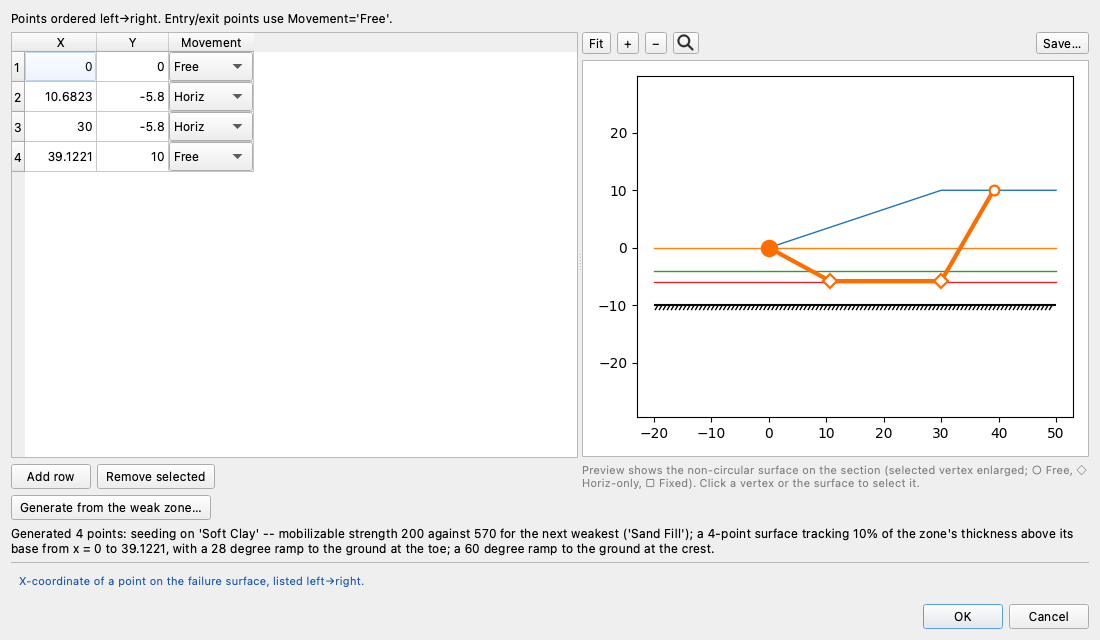
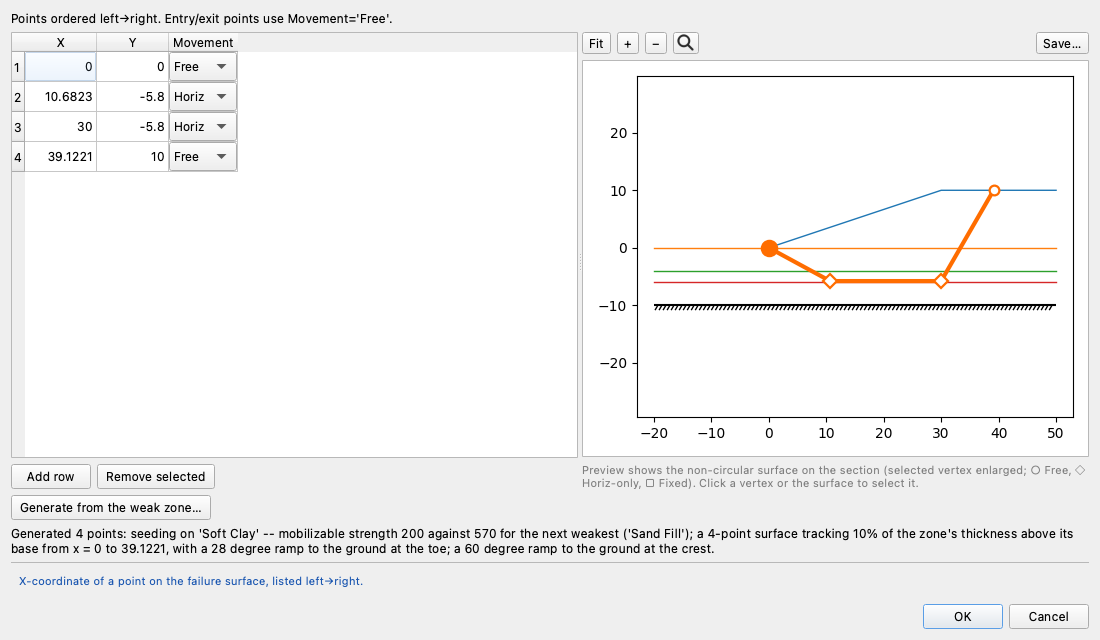
studio: a table opened with no rows has room for the first row; the Materials swatch no longer covers the name column
Each column of widgets (the Materials color swatch, every choice column) is
floored on a sample of its widget, so an empty table opens with those columns
as wide as a full one (within Qt's grid pixel). Tables opened with rows keep the
widths they had: compared column by column over every editor on three models,
only empty tables' widget columns changed. LEM-5's generate shot redrawn; its
Movement column is now the width a full table gives it.

Claude-Session: https://claude.ai/code/session_01XjjT2aBxw8gY7EFdpoUcpj

diff --git a/studio/editors.py b/studio/editors.py
@@ -722,13 +722,27 @@ class _EditableTable(QWidget):
         VISIBLE columns need in the table's viewport.
 
         The field kinds are what tell a numeric column (floored at the widest
-        ordinary number, so an empty table is as wide as a full one) from a text or
-        choice column (floored at its header). A display column that is not a field
-        — the Materials swatch — is not numeric either, and floors on its own
-        header glyph."""
+        ordinary number, so an empty table is as wide as a full one) from a text
+        column (floored at its header). A column of widgets floors on the widget
+        (:meth:`_sample_widgets`), for the same reason as a numeric one."""
         numeric = {j for j, f in enumerate(self._fields)
                    if f.kind in Field.NUMERIC_KINDS}
-        return _fit_columns(self.table, numeric)
+        return _fit_columns(self.table, numeric, self._sample_widgets())
+
+    def _sample_widgets(self):
+        """A sample of the widget each widget column puts in a row: a choice box
+        holding the field's choices, and the Materials swatch's button. Built here
+        rather than read off a row, so a table opened with no rows has room for the
+        first one added."""
+        out = {}
+        for j, f in enumerate(self._fields):
+            if f.kind in Field.COMBO_KINDS:
+                out[j] = QComboBox()
+                out[j].addItems(f.choices)
+        if self._swatch is not None:
+            from .styles_dialog import ColorButton
+            out[len(self._fields)] = ColorButton(self._swatch.default_hex(0))
+        return out
 
     def columns_width(self):
         """The width this pane needs to show every visible column: the fitted
@@ -2275,13 +2289,19 @@ _NUMBER_SAMPLE = "-" + "0" * _DISPLAY_SIG_DIGITS + "."
 _TEXT_SAMPLE = "0" * 12
 
 
-def _column_widths(table, numeric):
+def _column_widths(table, numeric, widgets=None):
     """The width each column needs to show its own widest content, header included.
 
     ``numeric`` is the set of column indexes holding numbers; those are the ones
-    floored at :data:`_NUMBER_SAMPLE`."""
+    floored at :data:`_NUMBER_SAMPLE`. ``widgets`` maps a column whose cells are
+    widgets to a sample of that widget, measured as a row's own widget would be
+    (Qt's column hint reads a cell widget's sizeHint held within its minimum and
+    maximum width). It floors the column the same way: with no rows there is no
+    widget to measure, and a column sized to its header alone is overrun by the
+    first row added."""
     from PySide6.QtWidgets import QComboBox, QStyle
 
+    widgets = widgets or {}
     header = table.horizontalHeader()
     fm = table.fontMetrics()
     cushion = fm.horizontalAdvance("00")                    # one em-ish, both sides
@@ -2291,8 +2311,13 @@ def _column_widths(table, numeric):
     text_floor = fm.horizontalAdvance(_TEXT_SAMPLE) + cushion
     widths = []
     for c in range(table.columnCount()):
-        w = max(table.sizeHintForColumn(c), header.sectionSizeHint(c))
-        free_text = combo = False
+        sample = widgets.get(c)
+        w = max(table.sizeHintForColumn(c), header.sectionSizeHint(c),
+                0 if sample is None else
+                min(max(sample.sizeHint().width(), sample.minimumWidth()),
+                    sample.maximumWidth()))
+        free_text = False
+        combo = isinstance(sample, QComboBox)
         for r in range(table.rowCount()):
             cell = table.cellWidget(r, c)
             if isinstance(cell, QComboBox):
@@ -2325,7 +2350,7 @@ def _column_widths(table, numeric):
     return widths
 
 
-def _fit_columns(table, numeric):
+def _fit_columns(table, numeric, widgets=None):
     """Size each column to its own content (:func:`_column_widths`). Returns the
     viewport width the VISIBLE columns need.
 
@@ -2343,7 +2368,7 @@ def _fit_columns(table, numeric):
     header.setMinimumSectionSize(-1)
     header.setSectionResizeMode(QHeaderView.Interactive)
     header.setStretchLastSection(False)
-    widths = _column_widths(table, numeric)
+    widths = _column_widths(table, numeric, widgets)
     for c, w in enumerate(widths):
         header.resizeSection(c, w)
     return sum(w for c, w in enumerate(widths) if not table.isColumnHidden(c))

diff --git a/test/table_paste_check.py b/test/table_paste_check.py
@@ -376,6 +376,41 @@ def test_a_cell_editor_keeps_the_cell_alignment():
     return out
 
 
+def test_an_empty_table_has_room_for_its_first_row():
+    """A table opened with no rows sizes each column of widgets (the Materials
+    color swatch, every choice column) to the widget a row puts there, so the first
+    row added fits: the swatch does not spill over the name column, and each of
+    those columns is as wide as it is when the table opens with that row already in
+    it (within the pixel of grid line Qt adds to a measured row)."""
+    from PySide6.QtWidgets import QApplication
+    from studio.editors import MaterialsEditor
+
+    model = _load(os.path.join(_MODELS, "xslope_simple_mult_layers.xlsx"))
+    dlg = _shown(MaterialsEditor().build(dict(model, materials=[]), None))
+    dlg.set_view_mode("table")
+    dlg._table._add_row()
+    QApplication.processEvents()
+    tbl = dlg._table.table
+    sc = tbl.horizontalHeader().logicalIndex(0)
+    swatch = tbl.cellWidget(0, sc)
+    out = _fail(swatch is not None and swatch.width() <= tbl.columnWidth(sc),
+                f"the {swatch.width() if swatch else '?'} px color swatch sits in a "
+                f"{tbl.columnWidth(sc)} px column")
+
+    full = MaterialsEditor().build(dict(model, materials=dlg._table.result_rows()),
+                                   None)
+    full.set_view_mode("table")
+    ft = full._table.table
+    off = [(tbl.horizontalHeaderItem(c).text(), tbl.columnWidth(c), ft.columnWidth(c))
+           for c in range(tbl.columnCount()) if tbl.cellWidget(0, c) is not None
+           and abs(tbl.columnWidth(c) - ft.columnWidth(c)) > 1]
+    out += _fail(not off, "columns opened empty are not as wide as opened with the "
+                          f"row (column, empty, full): {off}")
+    dlg.close()
+    full.close()
+    return out
+
+
 def test_tab_past_the_last_cell_adds_a_row():
     """Tab from the last column of the last row adds a row and moves into its first
     cell, as Tab does at the end of a word-processor table (Qt's own Tab wraps to
@@ -1721,6 +1756,8 @@ CHECKS = [
     ("Delete on a plain grid", test_delete_on_a_plain_grid),
     ("a cell editor keeps the cell's alignment",
      test_a_cell_editor_keeps_the_cell_alignment),
+    ("an empty table has room for its first row",
+     test_an_empty_table_has_room_for_its_first_row),
     ("Tab past the last cell adds a row", test_tab_past_the_last_cell_adds_a_row),
     ("Tab past the last cell of a plain grid",
      test_tab_past_the_last_cell_of_a_plain_grid),

diff --git a/CHANGELOG.md b/CHANGELOG.md
@@ -22,6 +22,10 @@ release are on the [releases page](https://github.com/njones61/xslope/releases).
   when there is no polygon or line yet. Before, the middle pane was blank.
 - A number opened for typing in a Studio table stays right-justified. Before, it
   jumped to the left edge of the cell while being edited.
+- A Studio table opened with no rows has room for the first row added: the
+  Materials color swatch fits its column, and each choice column shows its choice.
+  Before, the swatch spilled over the name column, and choices such as the
+  Materials `u` were cut off.
 - A pool read from seepage head boundaries covers the ground its boundary is drawn
   along and ends where the boundary ends, at full depth. Before, it spread on over
   any lower ground, so on a sheetpile section the upstream pool flooded the
